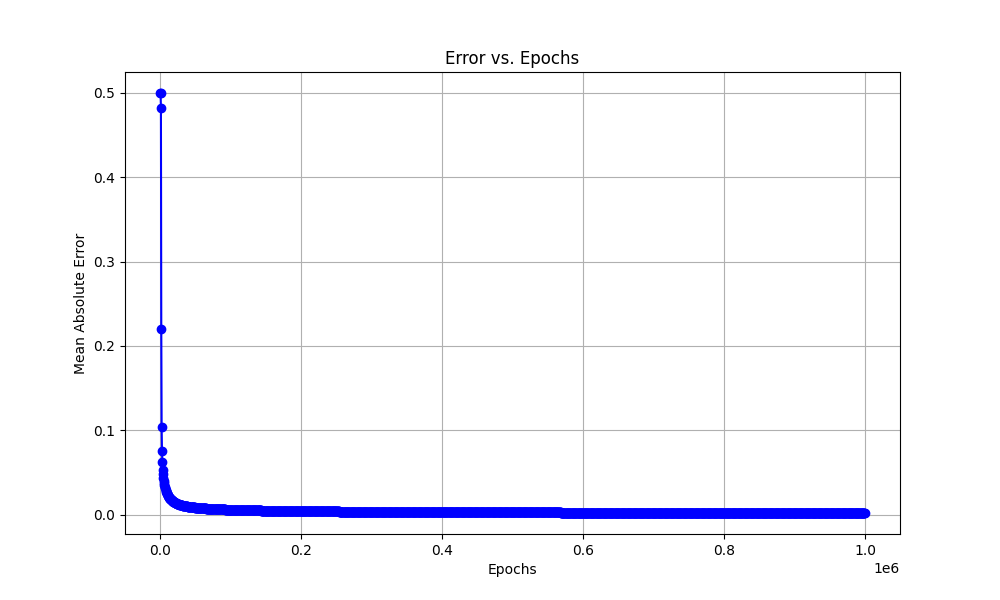
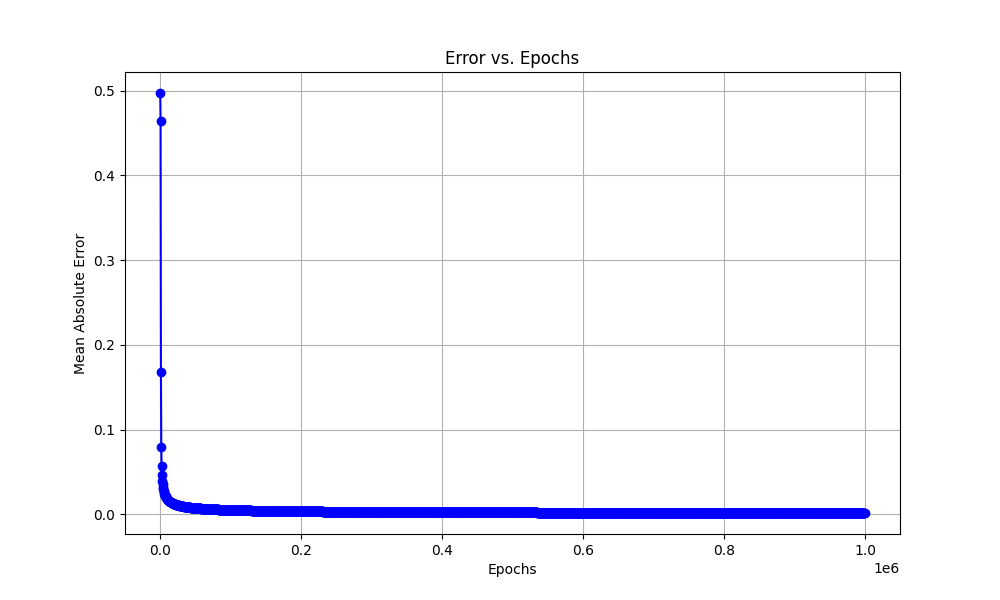
More hidden layer neurons

diff --git a/xor.py b/xor.py
@@ -26,7 +26,7 @@ outputs = np.array([[0], [1], [1], [0]])
 # Initialize weights
 np.random.seed(1)
 input_layer_neurons = 2
-hidden_layer_neurons = 4
+hidden_layer_neurons = 8
 output_neurons = 1
 
 weights_input_hidden = np.random.uniform(size=(input_layer_neurons, hidden_layer_neurons))
